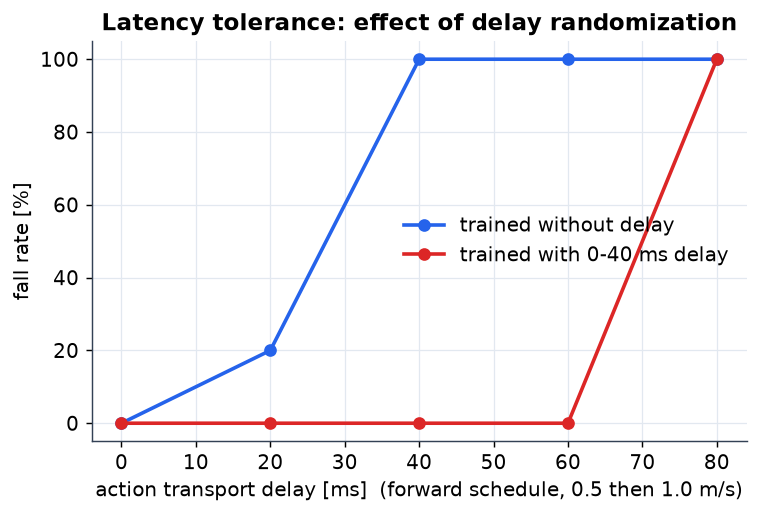
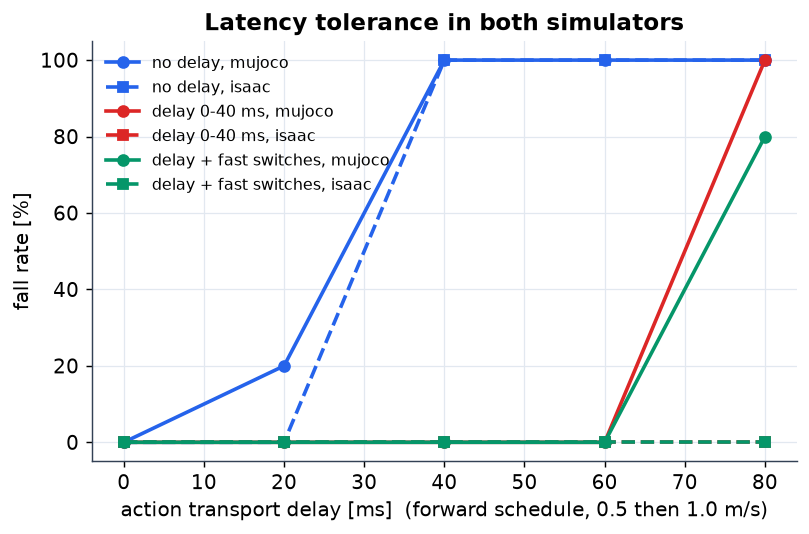
Cross-simulator results: Isaac-vs-MuJoCo table, latency agreement, run 4 (delay + fast switches), README

diff --git a/README.md b/README.md
@@ -14,11 +14,34 @@ C++ loop reproduces the Python plant bit for bit and runs the same policy in rea
 
 ## Results
 
+Three policies, same task family, evaluated on identical command schedules in both simulators
+(`hls eval-isaac` drives Isaac Lab from the same YAML the MuJoCo rollout uses, 10 seeds each,
+deterministic resets, explicit zero action delay). Generated by `hls compare`:
+
+| policy | schedule | isaac falls | isaac vx rmse | mujoco falls | mujoco vx rmse |
+|---|---|---|---|---|---|
+| no delay | forward | 0% | 0.22 | 0% | 0.21 |
+| no delay | walk | 0% | 0.23 | 0% | 0.20 |
+| no delay | push | 10% | 0.20 | 100% | 0.31 |
+| delay | forward | 0% | 0.24 | 0% | 0.34 |
+| delay | walk | 0% | 0.24 | 100% | 0.47 |
+| delay | push | 0% | 0.16 | 90% | 0.27 |
+| delay+switch | forward | 0% | 0.18 | 0% | 0.25 |
+| delay+switch | walk | 0% | 0.18 | 50% | 0.28 |
+| delay+switch | push | 0% | 0.13 | 10% | 0.21 |
+
+*no delay*: stock task + fixes. *delay*: + 0-40 ms action transport delay randomization.
+*delay+switch*: + commands resampled every 2-6 s. All three are near-perfect in Isaac Lab; the
+MuJoCo column is the sim-to-sim gap, and it is policy-dependent: the same plant differences that
+one policy shrugs off (*no delay* on the walk schedule) another cannot absorb (*delay* on the same
+schedule). Push and schedule-switch robustness in MuJoCo improved monotonically with training
+diversity, while the walk schedule's abrupt 1.0 m/s forward to 0.5 m/s lateral switch remains the
+hardest transfer case.
+
 | | Isaac Lab (training) | MuJoCo (transfer) |
 |---|---|---|
 | Achieved speed at 0.5 m/s command | 0.44 m/s | 0.39 m/s |
 | Achieved speed at 1.0 m/s command | 1.01 m/s | 0.80 m/s |
-| Falls on the 23 s walk schedule (10 seeds) | 0 | 0 |
 
 Sim-to-sim findings, all measured, all reproducible with one command each:
 
@@ -32,13 +55,28 @@ Sim-to-sim findings, all measured, all reproducible with one command each:
 - **Domain shift:** zero falls across ±40 % pelvis mass and floor friction from 0.5 to 1.0;
   friction 0.3 fails on every mass. Gyro noise of 0.2 rad/s changes nothing.
 - **Latency is the deployment risk, and delay randomization fixes it.** Trained without delay,
-  the policy falls in 20 % of runs at one policy step (20 ms) of action transport delay and in all
-  runs at two. Retrained with a per-environment delay of 0 to 2 steps resampled at every reset
-  (`isaac/actions.py`, built on Isaac Lab's `DelayBuffer`), it walks with zero falls up to three
-  steps (60 ms), beyond what it trained on, and fails at four. Cost: the delay-trained policy
-  passes every skill in isolation (forward, lateral, turning) but falls on the walk schedule's
-  abrupt switch from 1.0 m/s forward into 0.5 m/s lateral, which the no-delay policy survives.
-  Both exports ship (`export/` and `export-delay/`); the README figures use the no-delay one.
+  the policy falls in 20 % of MuJoCo runs at one policy step (20 ms) of action transport delay
+  and in all runs at two. Retrained with a per-environment delay of 0 to 2 steps resampled at
+  every reset (`isaac/actions.py`, built on Isaac Lab's `DelayBuffer`), it walks with zero falls
+  up to three steps (60 ms), beyond what it trained on. Adding frequent command switches on top
+  kept that tolerance and took MuJoCo push recovery from 90 % falls to 10 %. The two simulators
+  agree on the cliff (forward schedule, fall rate vs. action transport delay):
+
+  |---|---|---|---|---|---|---|
+  | no delay | mujoco | 0% | 20% | 100% | 100% | 100% |
+  | no delay | isaac | 0% | 0% | 100% | 100% | 100% |
+  | delay | mujoco | 0% | 0% | 0% | 0% | 100% |
+  | delay | isaac | 0% | 0% | 0% | 0% | 0% |
+  | delay+switch | mujoco | 0% | 0% | 0% | 0% | 80% |
+  | delay+switch | isaac | 0% | 0% | 0% | 0% | 0% |
+ All three exports ship (`export/`, `export-delay/`,
+  `export-delay-switch/`); the velocity and gait figures use the first.
+- **An evaluator is only as honest as its defaults.** The first Isaac-side numbers showed the
+  no-delay policy falling in 3 of 10 envs on every schedule at identical instants. The cause was
+  the evaluation task inheriting training-time randomization: a random 0-2 step action delay per
+  env, a heading controller overriding the yaw command, a random subset of envs with commands
+  forced to zero, and randomized spawn poses. `HLS-G1-Flat-Eval-v0` disables all of them and
+  the evaluator sets the action delay explicitly.
 - **A first training run silently failed.** The stock Isaac Lab G1 task terminates only on torso
   contact. On the 29-DOF asset with its softer leg gains PPO found a stable knee-fall (pelvis at
   0.15 m, zero speed) that never terminated and scored a healthy-looking reward. MuJoCo reproduced
@@ -67,7 +105,8 @@ flowchart LR
     CPP --> THOR["Jetson AGX Thor<br/>TensorRT timing"]
 ```
 
-- **`src/humanoid_loco/isaac/`** — the Isaac Lab task: the stock G1 flat velocity task with the
+- **`src/humanoid_loco/isaac/`** — the Isaac Lab task and its evaluator (`hls eval-isaac`: same
+  schedules, same `Trajectory`, same scoring as MuJoCo, deterministic resets): the stock G1 flat velocity task with the
   29-DOF G1 asset (joint names identical to MuJoCo Menagerie), actions restricted to the 12 leg
   joints and passed through a per-env transport delay, `base_lin_vel` removed from the policy
   observations (not measurable on hardware) with an asymmetric critic that keeps it, and the
@@ -127,6 +166,9 @@ hls prepare-cpp --run runs/g1_flat_12dof/export && build/hls_loop --run runs/g1_
 scripts/setup-isaaclab-windows.ps1          # Isaac Sim 5.1 + Isaac Lab 2.3.2 via pip (~25 GB)
 hls train --headless --num-envs 2048        # 1500 iterations, ~45 min on an RTX 4060 Ti (5.5 GB)
 hls play  --checkpoint latest --headless --export-dir runs/g1_flat_12dof/export
+hls eval-isaac --headless --checkpoint latest --commands configs/commands/walk.yaml --out runs/g1_flat_12dof/export/isaac-walk.json
+hls eval-isaac --headless --checkpoint latest --commands configs/commands/forward.yaml --delay 2 --out runs/g1_flat_12dof/export/isaac-forward-delay2.json
+hls compare "no delay=runs/g1_flat_12dof/export" "delay=runs/g1_flat_12dof/export-delay" --latency
 ```
 
 ## What's real vs simulated
@@ -149,7 +191,9 @@ src/humanoid_loco/
 ├── policy.py        onnxruntime wrapper
 ├── isaac/           task cfg, PPO cfg, train/play runners, exporter   (needs Isaac Sim)
 ├── mujoco/          scene builder (MjSpec), plant, rollouts, metrics  (needs mujoco)
-└── cli.py           hls train | play | sim2sim | sweep | report | prepare-cpp | score
+├── schedule.py      command schedules (YAML) shared by MuJoCo, Isaac and C++
+├── metrics.py       Trajectory + scoring + Markdown tables, plant-agnostic
+└── cli.py           hls train | play | eval-isaac | sim2sim | sweep | compare | report | prepare-cpp | score
 cpp/                 hls_loop: manifest, policy, PD, plant, loop (CMake, deps fetched)
 configs/commands/    velocity-command schedules (walk, push recovery)
 deploy/thor/         inference latency benchmark per execution provider
